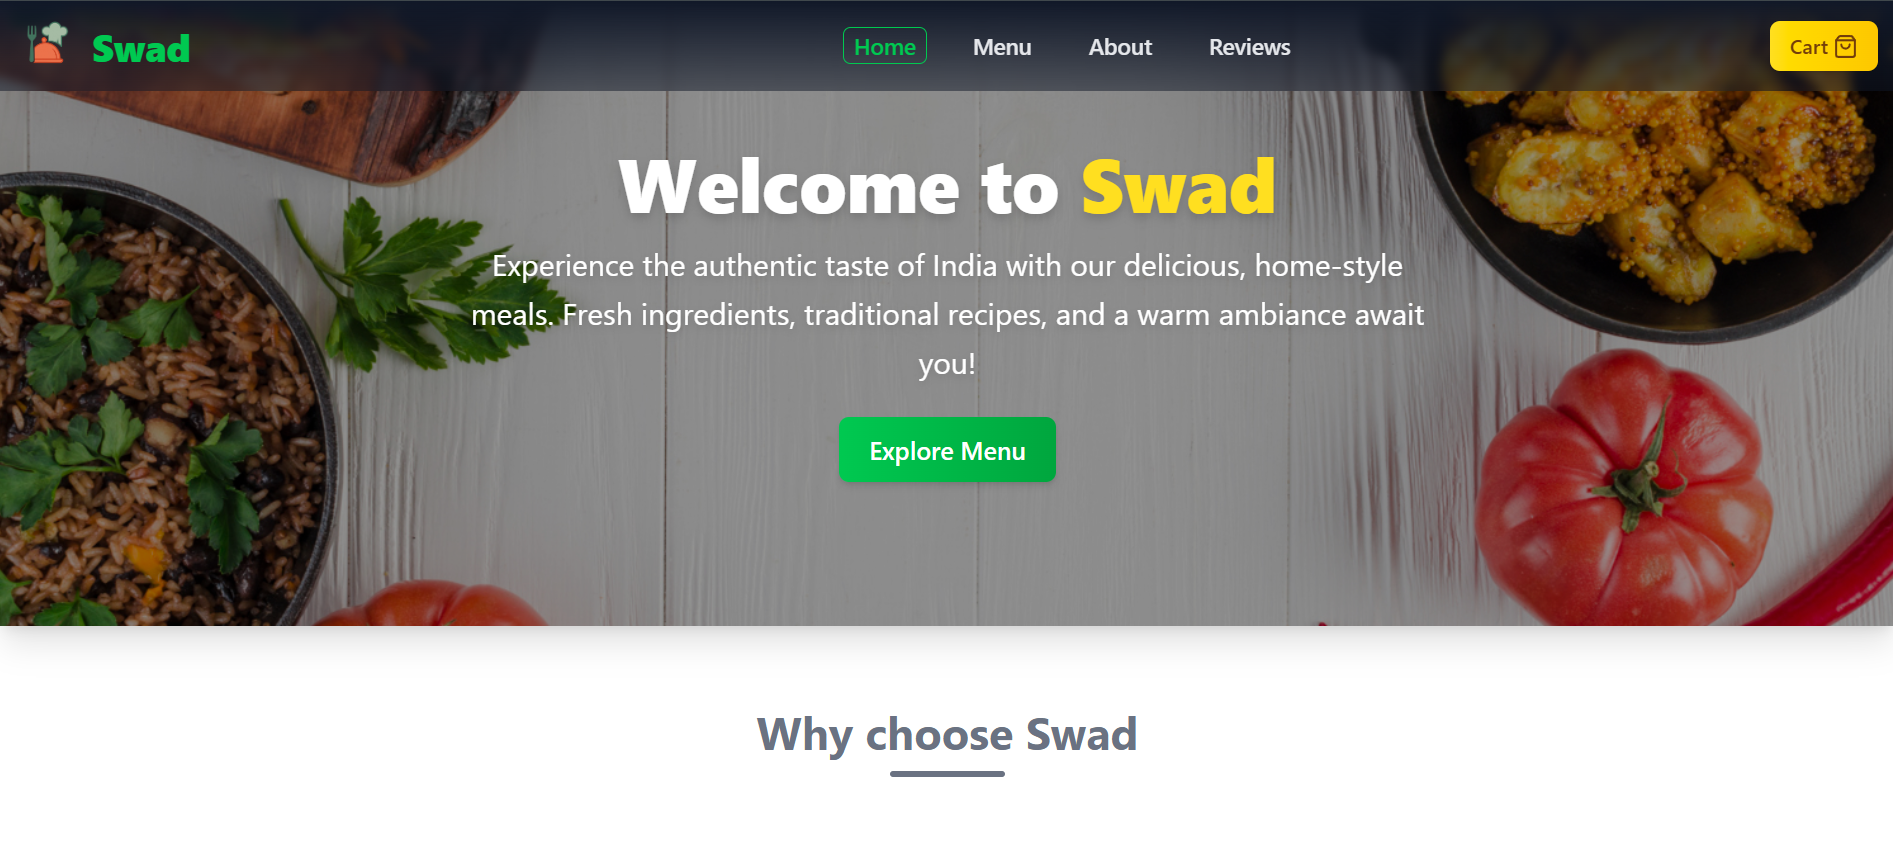
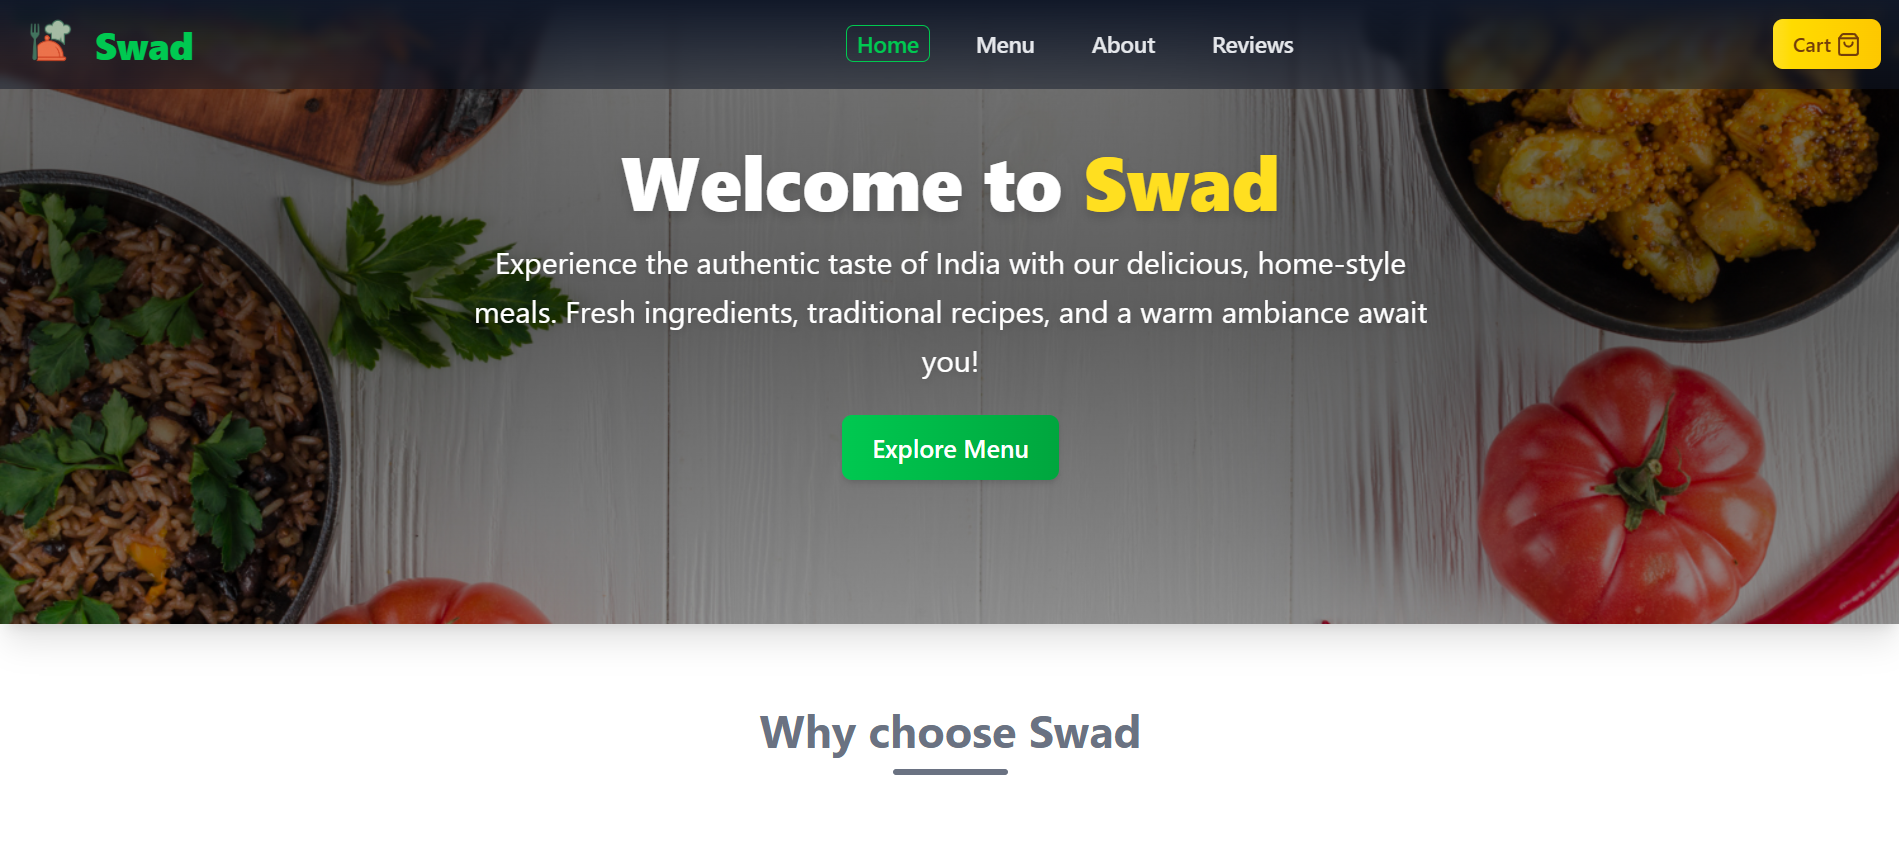
Bg Overlay

diff --git a/src/views/Home.jsx b/src/views/Home.jsx
@@ -24,7 +24,8 @@ function Home() {
             className="w-full h-full object-cover object-center"
             loading="lazy"
           />
-          <div className="absolute inset-0 bg-black/40 bg-opacity-10" />
+          <div className="absolute inset-0 bg-gradient-to-t from-black/40 via-black/60 to-black/50" />
+
           <div className="absolute inset-0 flex flex-col items-center justify-end md:justify-center text-center text-white px-4 max-md:pb-3">
             <h1 className="text-3xl sm:text-4xl md:text-5xl lg:text-6xl font-extrabold drop-shadow-lg mb-2 md:mb-4">
               Welcome to <span className="text-yellow-300">Swad</span>
